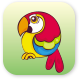
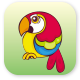
303b fix apps 英语角图标所处位置修正

diff --git a/linksFrontEnd/src/v303b/css/index-app.css b/linksFrontEnd/src/v303b/css/index-app.css
@@ -77,8 +77,8 @@
 	width: 40px;
 	background: url(../imgs/hot.png) 0 0 no-repeat;
 	position: absolute;
-	left: -1px;
-	top: 0px
+	left: 1px;
+	top: 2px
 }
 .apps ul li:hover,
 .apps ul li:hover a,
